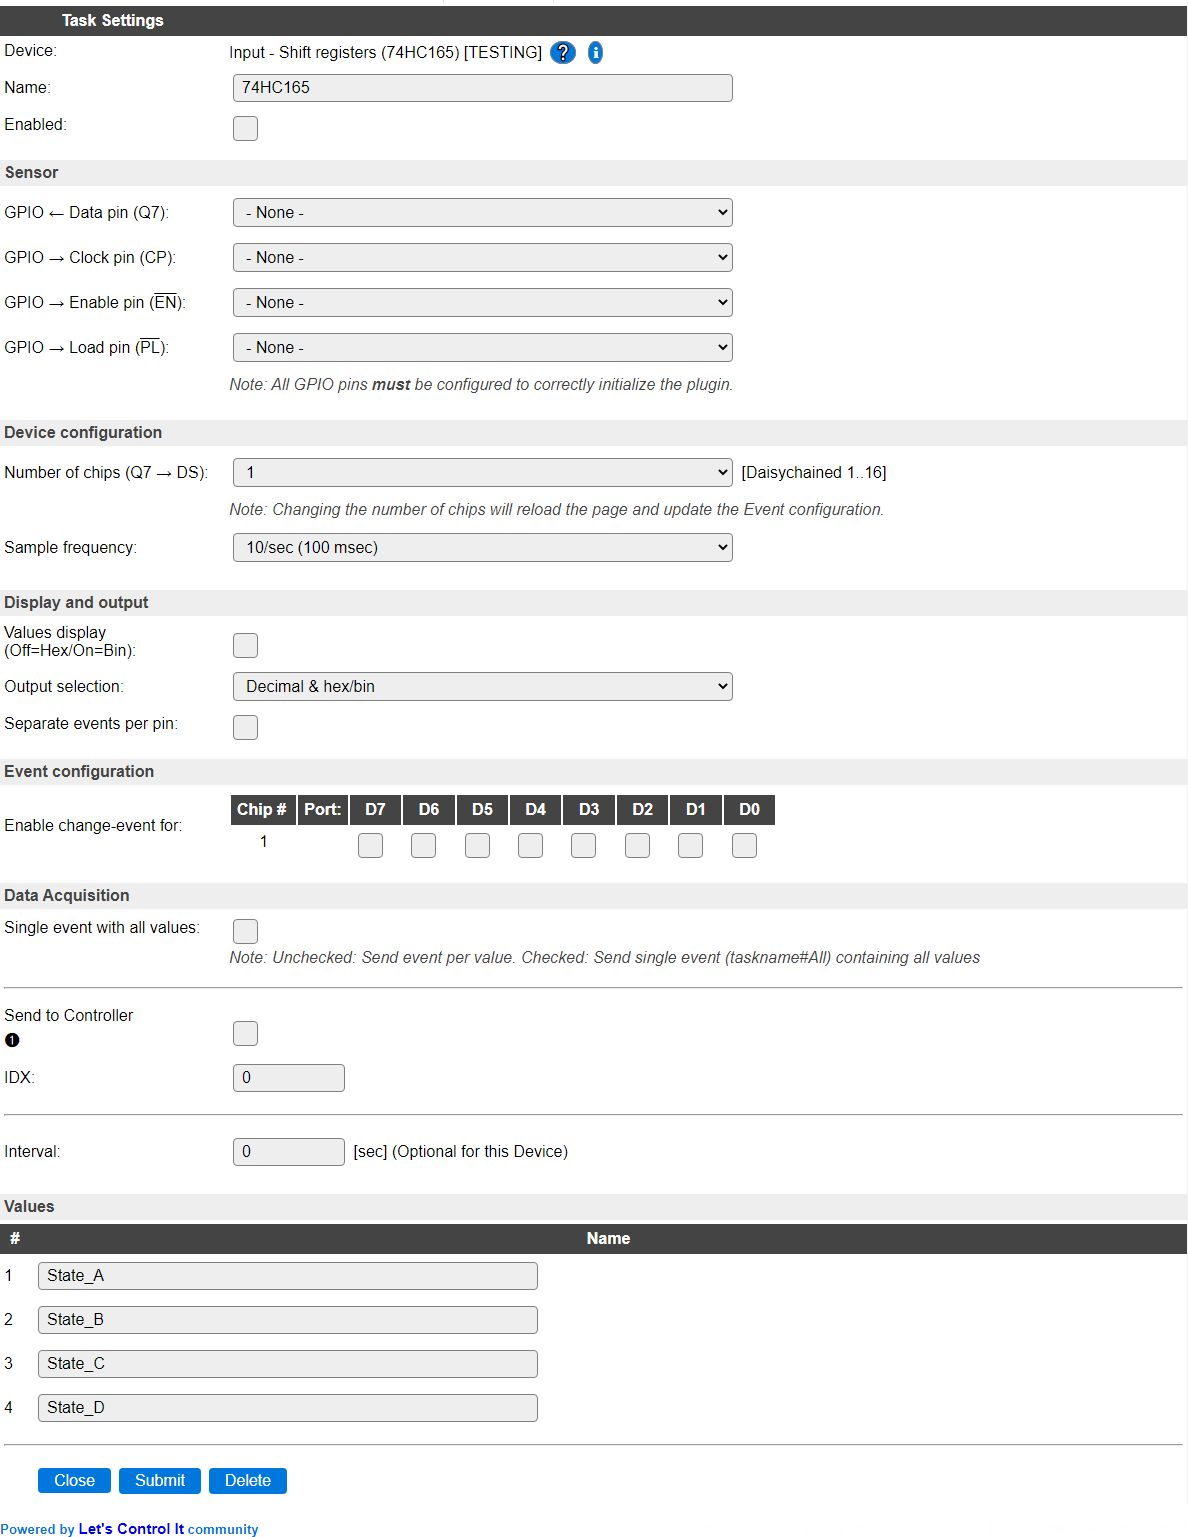
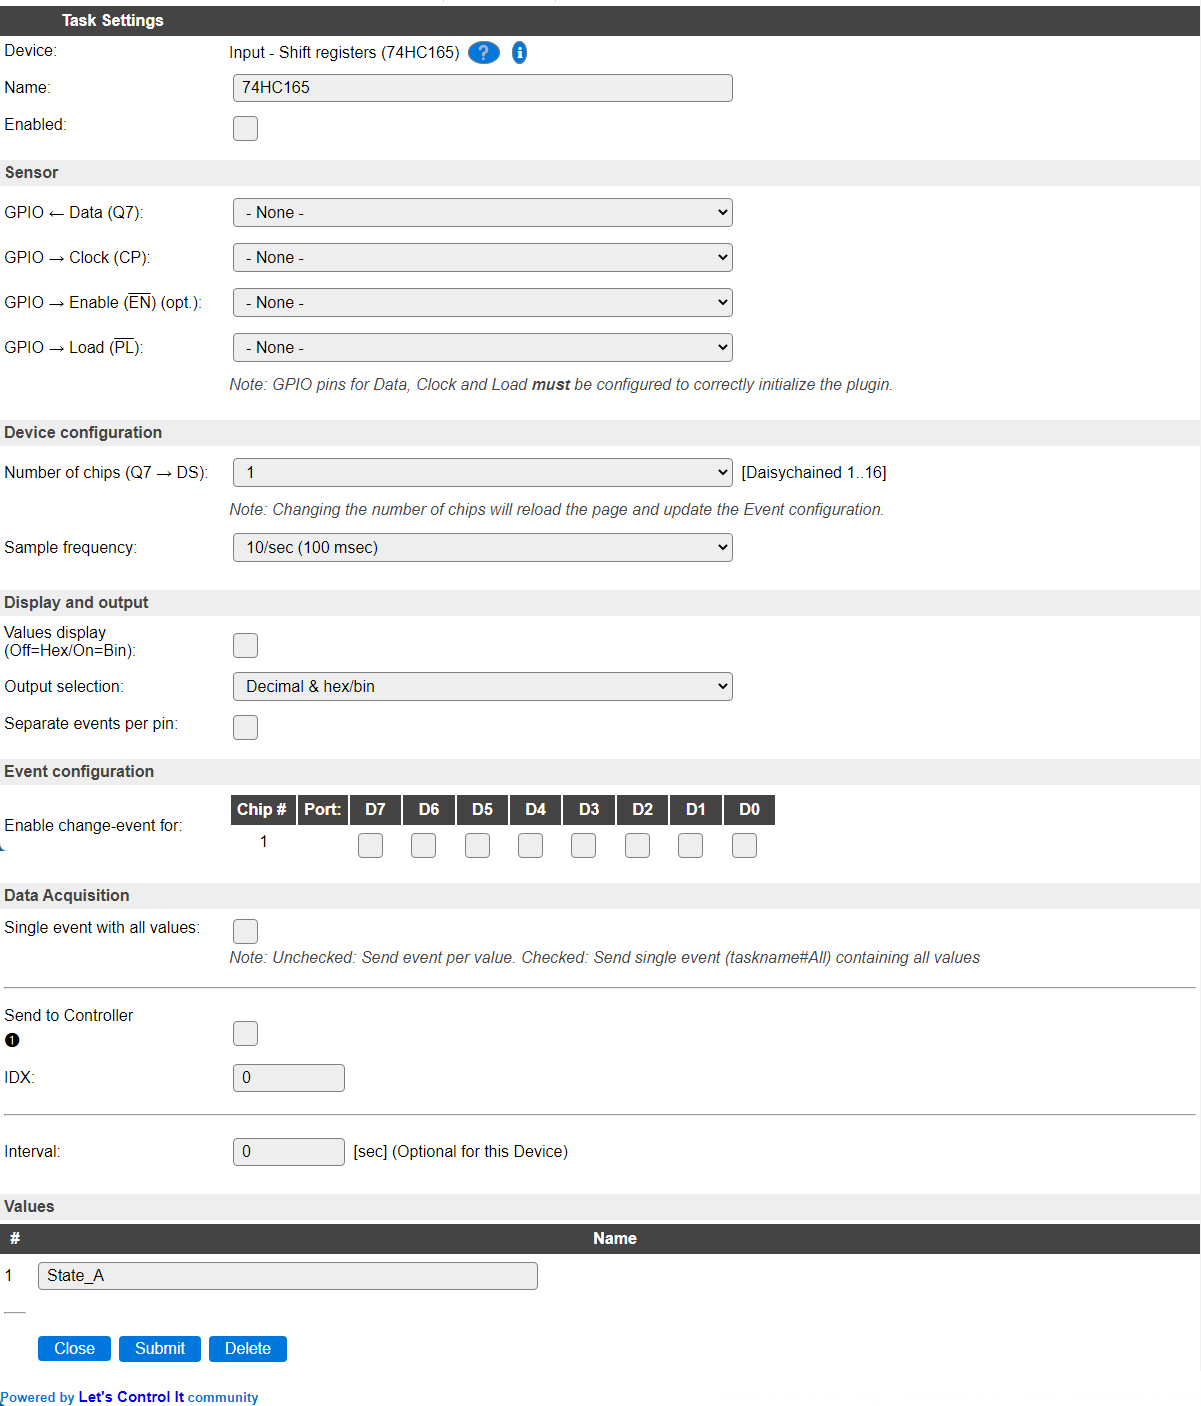
[P129] Fix a bug, improve code and documentation

diff --git a/src/src/PluginStructs/P129_data_struct.cpp b/src/src/PluginStructs/P129_data_struct.cpp
@@ -24,12 +24,13 @@ bool P129_data_struct::plugin_init(struct EventStruct *event) {
     }
 
     // Prepare all used GPIO pins
-    pinMode(_enablePin, OUTPUT);
-    pinMode(_loadPin,   OUTPUT);
-    pinMode(_clockPin,  OUTPUT);
-    pinMode(_dataPin,   INPUT);
-    digitalWrite(_loadPin,   HIGH);
-    digitalWrite(_enablePin, HIGH);
+    if (validGpio(_enablePin)) { pinMode(_enablePin, OUTPUT); }
+    pinMode(_loadPin,  OUTPUT);
+    pinMode(_clockPin, OUTPUT);
+    pinMode(_dataPin,  INPUT);
+    digitalWrite(_loadPin, HIGH);
+
+    if (validGpio(_enablePin)) { digitalWrite(_enablePin, HIGH); }
 
     return true;
   }
@@ -178,14 +179,14 @@ bool P129_data_struct::plugin_readData(struct EventStruct *event) {
     digitalWrite(_loadPin, HIGH);
     delayMicroseconds(5);
 
-    digitalWrite(_clockPin,  HIGH);
-    digitalWrite(_enablePin, LOW);
+    if (validGpio(_enablePin)) { digitalWrite(_enablePin, LOW); }
 
     for (uint8_t i = 0; i < P129_CONFIG_CHIP_COUNT; i++) {
       prevBuffer[i] = readBuffer[i];
       readBuffer[i] = shiftIn(static_cast<uint8_t>(_dataPin), static_cast<uint8_t>(_clockPin), MSBFIRST);
     }
-    digitalWrite(_enablePin, HIGH);
+
+    if (validGpio(_enablePin)) { digitalWrite(_enablePin, HIGH); }
     delay(0);
 
     checkDiff(event);

diff --git a/src/src/PluginStructs/P129_data_struct.h b/src/src/PluginStructs/P129_data_struct.h
@@ -66,7 +66,6 @@ public:
   const bool isInitialized() const { // All GPIO's defined
     return _dataPin != -1 &&
            _clockPin != -1 &&
-           _enablePin != -1 &&
            _loadPin != -1;
   }
 

diff --git a/docs/source/Plugin/P129.rst b/docs/source/Plugin/P129.rst
@@ -24,7 +24,7 @@ Used libraries: |P129_usedlibraries|
 Description
 -----------
 
-The 74HC165 Shift registers can be used to connect many input pins to an ESP using only 4 GPIO pins, as these shift registers can easily be daisy chained.
+The 74HC165 Shift registers can be used to connect many input pins to an ESP using only 3 or 4 GPIO pins, as these shift registers can easily be daisy chained.
 
 When connecting many shift registers daisy-chained, it is important to ensure that not *too* many are connected to a single GPIO output pin, as that could overload that pin. It is advised to use a buffer chip for all used GPIOs for every 4 to 5 shift registers. When using a Schmitt-trigger buffer, it will also clean up the signal further down the line. Any buffer will introduce a small delay in the signal, possibly reducing the number of shift registers that can be controlled. A few useful answers are in this `Stack Exchange question`_ (issue is similar for input and output shift registers)
 
@@ -36,22 +36,22 @@ Configuration
 .. image:: P129_DeviceConfiguration.png
   :alt: Device configuration
 
-* **Name** A unique name should be entered here.
+* **Name**: A unique name should be entered here.
 
-* **Enabled** The device can be disabled or enabled. When not enabled the device should not use any resources.
+* **Enabled**: The device can be disabled or enabled. When not enabled the device should not use any resources.
 
 Actuator
 ^^^^^^^^
 
-* **GPIO -> Data pin (Q7)**: Select the GPIO pin that is connected to the Data out pin of the (first) shift register. Any daisy chained register has its ``DS`` pin connected to the ``Q7`` pin of the previous shift register.
+* **GPIO -> Data (Q7)**: Select the GPIO pin that is connected to the Data out pin of the (first) shift register. Any daisy chained register has its ``DS`` pin connected to the ``Q7`` pin of the previous shift register.
 
-* **GPIO -> Clock pin (CP)**: Select the Clock pin of all shift registers.
+* **GPIO -> Clock (CP)**: Select the Clock pin of all shift registers.
 
-* **GPIO -> Enable pin (EN)**: Select the Enable pin of all shift registers.
+* **GPIO -> Enable (EN) (optional)**: Select the Enable pin of all shift registers, or set to None if not used or not available.
 
-* **GPIO -> Load pin (PL)**: Select the Load pin of all shift registers.
+* **GPIO -> Load (PL)**: Select the Load pin of all shift registers.
 
-NB: All 4 pins need to be configured or the plugin will not start.
+NB: At least **Data**, **Clock** and **Load** GPIO pins need to be configured for the plugin to be able to function as intended.
 
 Device configuration
 ^^^^^^^^^^^^^^^^^^^^
@@ -90,7 +90,7 @@ These are the available options:
 .. image:: P129_OutputOptions.png
   :alt: Output selection options
 
-If ``Decimal & hex/bin`` is selected, the value is output twice, formatted as decimal and as hexadecimal or binary, separated by a comma.
+If ``Decimal & hex/bin`` is selected, the value is output twice, formatted as decimal and as hexadecimal (``0x`` prefix) or binary (``0b`` prefix), separated by a comma.
 
 If either of the Hex/bin options is selected, but no ``Values display (Off=Hex/On=Bin)`` option is available, then the output will be formatted as hexadecimal.
 
@@ -113,12 +113,18 @@ The Data Acquisition, Send to Controller and Interval settings are standard avai
 Values
 ^^^^^^
 
-The Values ``State_A`` to ``State_D`` are used to show the state of up to 16 shift registers. (Custom formatted)
+The Values ``State_A`` to ``State_D`` are used to show the state of up to 16 shift registers. (Custom formatted like set in **Output selection**.) Values that are not going to be filled are not shown here, and no events will be generated either.
 
 Commands
 ~~~~~~~~
 
 .. include:: P129_commands.repl
+
+
+Events
+~~~~~~
+
+.. include:: P129_events.repl
 
 
 

diff --git a/docs/source/Reference/Command.rst b/docs/source/Reference/Command.rst
@@ -701,3 +701,8 @@ P127 :ref:`P127_page`
 ~~~~~~~~~~~~~~~~~~~~~~~~~~~~~~~~~~~~~~~~~~~~~~~~~~~~~~~~~~~~~~~~~~~~~~~~~~~~~~~~
 
 .. include:: ../Plugin/P127_commands.repl
+
+P129 :ref:`P129_page`
+~~~~~~~~~~~~~~~~~~~~~~~~~~~~~~~~~~~~~~~~~~~~~~~~~~~~~~~~~~~~~~~~~~~~~~~~~~~~~~~~
+
+.. include:: ../Plugin/P129_commands.repl

diff --git a/docs/source/Reference/Events.rst b/docs/source/Reference/Events.rst
@@ -522,3 +522,8 @@ P115 :ref:`P115_page`
 ^^^^^^^^^^^^^^^^^^^^^^^^^^^^^^^^^^^^^^^^^^^^^^^^^^^^^^^^^^^^^^^^^^^^^^^^^^^^^^^^
 
 .. include:: ../Plugin/P115_events.repl
+
+P129 :ref:`P129_page`
+^^^^^^^^^^^^^^^^^^^^^^^^^^^^^^^^^^^^^^^^^^^^^^^^^^^^^^^^^^^^^^^^^^^^^^^^^^^^^^^^
+
+.. include:: ../Plugin/P129_events.repl
